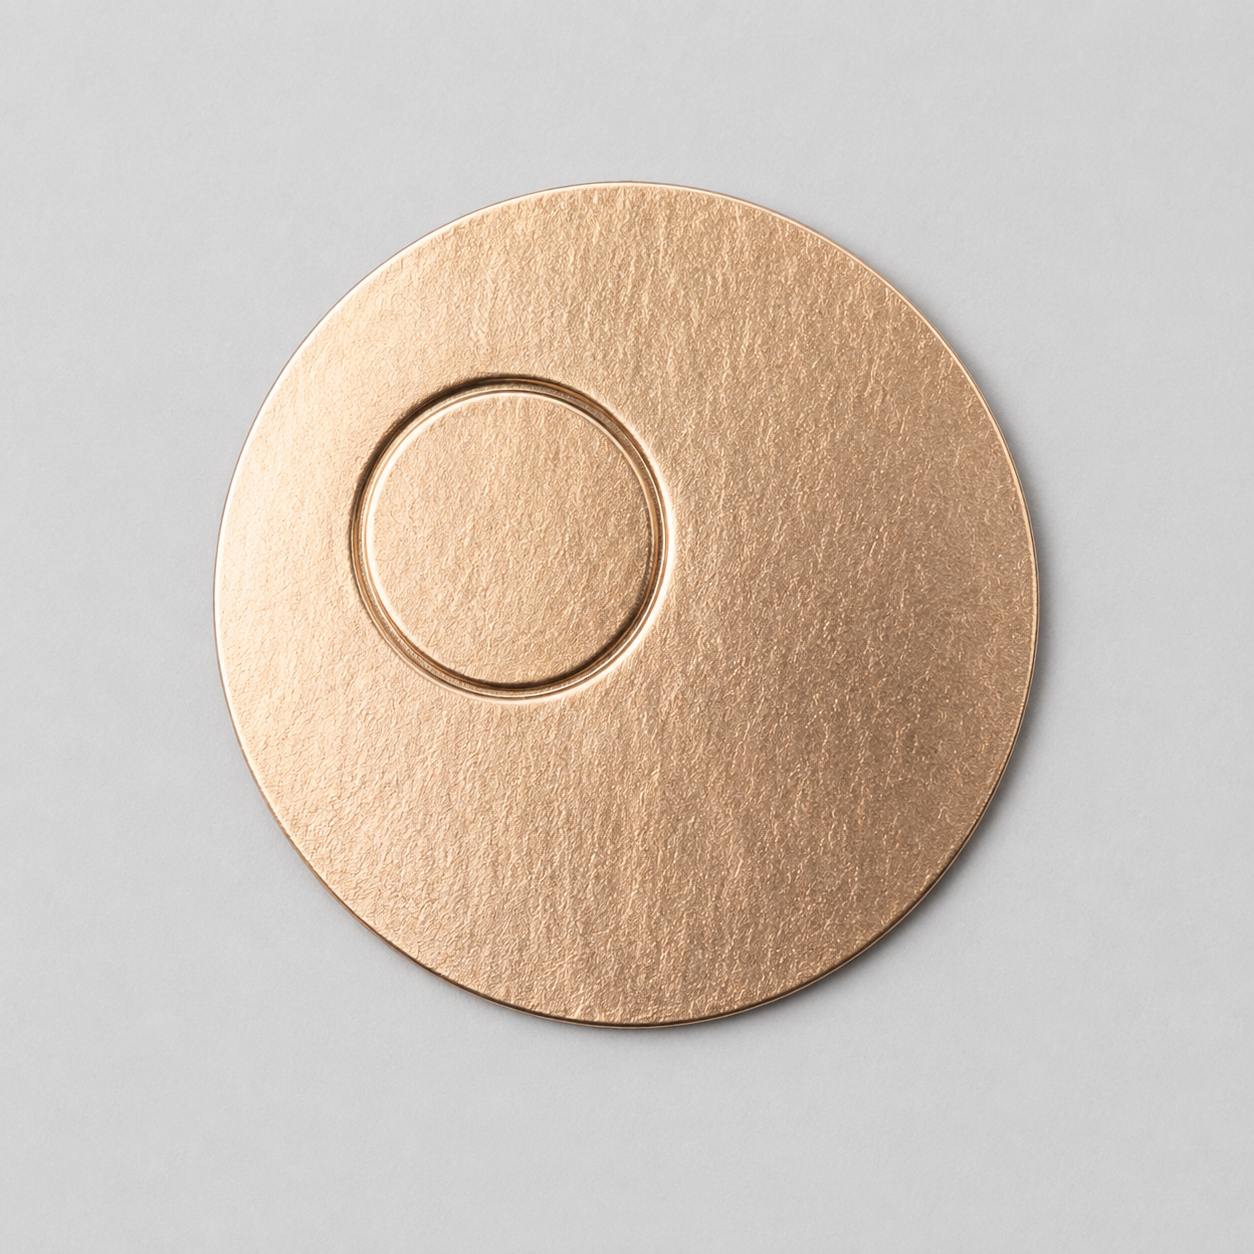
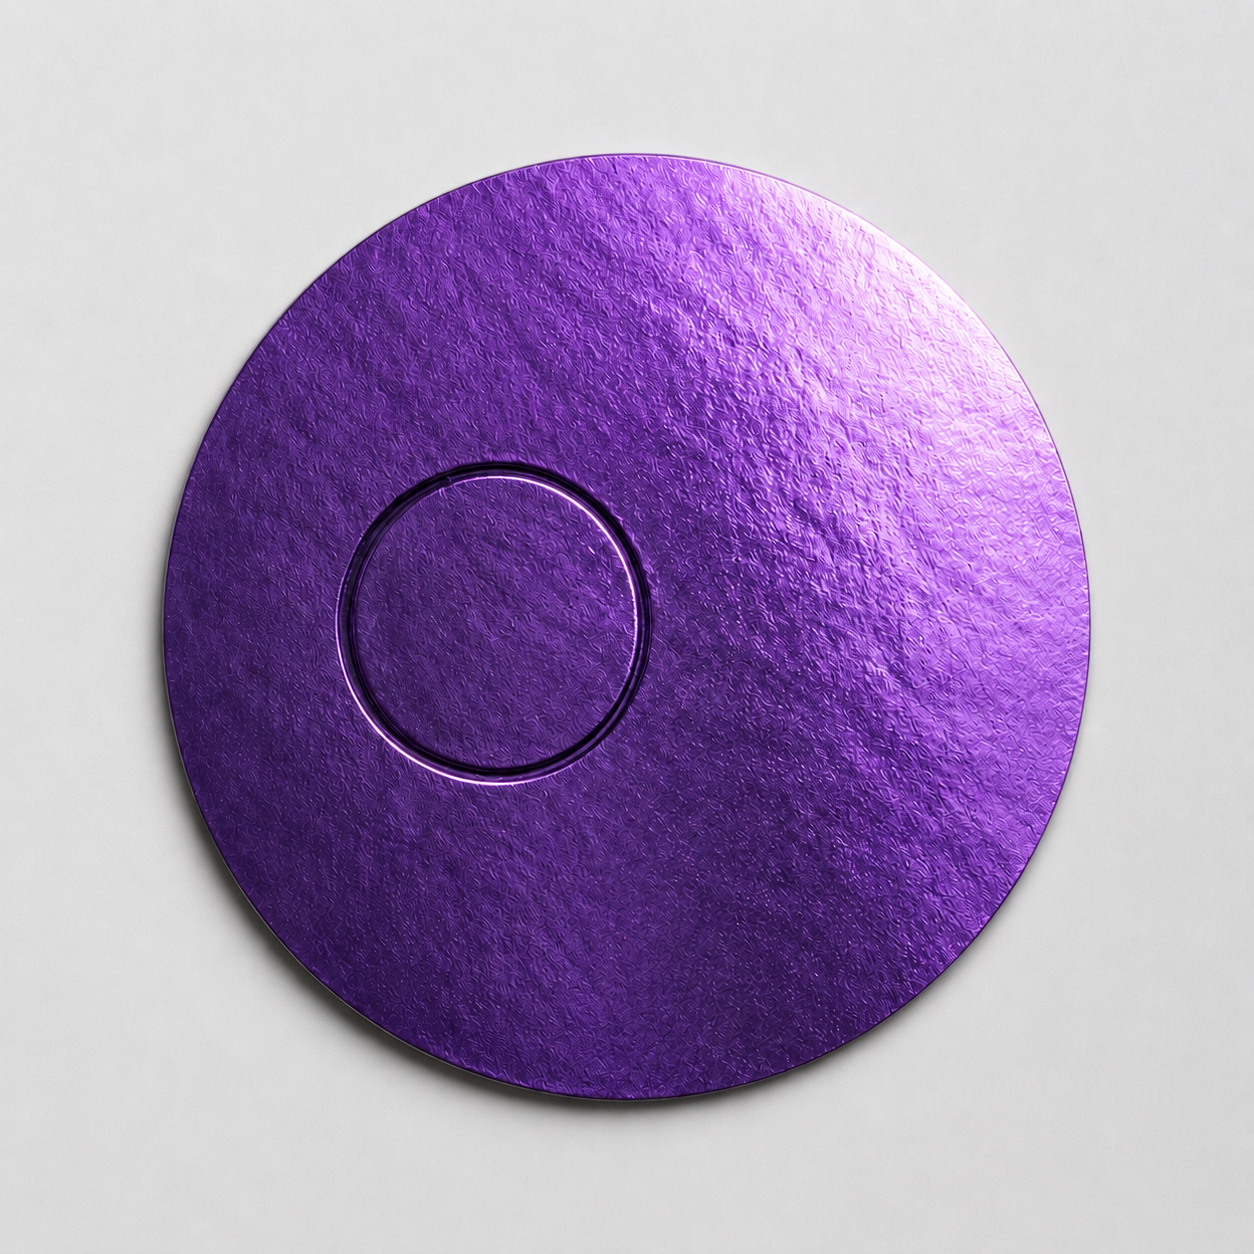
fix: use postcard-specific size swatches

diff --git a/resources/js/pages/shop/show.tsx b/resources/js/pages/shop/show.tsx
@@ -468,6 +468,18 @@ const generatedSizeSwatches: Record<string, string> = {
     custom: `${reusableSwatchBase}/custom-size.webp`,
 };
 
+const postcardSizeSwatches: Record<string, string> = {
+    standard: '/images/products/postcards/sizes/standard.png',
+    square: '/images/products/postcards/sizes/square.png',
+    rack: '/images/products/postcards/sizes/rack.png',
+    half_page: '/images/products/postcards/sizes/half-page.png',
+    'half-page': '/images/products/postcards/sizes/half-page.png',
+    small: '/images/products/postcards/sizes/small.png',
+    medium: '/images/products/postcards/sizes/medium.png',
+    large: '/images/products/postcards/sizes/large.png',
+    custom: '/images/products/postcards/sizes/custom.svg',
+};
+
 const captionedSizeSwatchCodes = new Set(['standard', 'square', 'custom']);
 
 function shouldShowSwatchCaption(groupKey: string, code: string): boolean {
@@ -478,6 +490,13 @@ function shouldShowSwatchCaption(groupKey: string, code: string): boolean {
 
 function sizeSwatchFor(code: string, fallback?: string): string | undefined {
     return generatedSizeSwatches[code.toLowerCase()] ?? fallback;
+}
+
+function postcardSizeSwatchFor(
+    code: string,
+    fallback?: string,
+): string | undefined {
+    return postcardSizeSwatches[code.toLowerCase()] ?? fallback;
 }
 
 const generatedFinishSwatches: Record<string, string> = {
@@ -966,13 +985,17 @@ export default function ShopShow({
                                 sizeSwatches[s.name.toLowerCase()] ??
                                     s.swatch_image,
                             )
-                          : (s.swatch_image ??
-                            sizeSwatches[s.name.toLowerCase()]),
+                          : isPostcardProduct
+                            ? postcardSizeSwatchFor(id, s.swatch_image)
+                            : (s.swatch_image ??
+                              sizeSwatches[s.name.toLowerCase()]),
                   };
               })
             : c.configurator_options.sizes.map((s: any) => ({
                   ...s,
-                  swatch: sizeSwatches[s.id.toLowerCase()] ?? s.swatch,
+                  swatch: isPostcardProduct
+                      ? postcardSizeSwatchFor(s.id, s.swatch)
+                      : sizeSwatches[s.id.toLowerCase()] ?? s.swatch,
               }));
     }, [
         hasProductOptions,
@@ -980,6 +1003,7 @@ export default function ShopShow({
         c.configurator_options.sizes,
         product.slug,
         isBusinessCardProduct,
+        isPostcardProduct,
         customSizeLimits,
     ]);
 
@@ -2567,6 +2591,7 @@ export default function ShopShow({
                                 useBusinessCardSizeSwatches={
                                     isBusinessCardProduct
                                 }
+                                usePostcardSizeSwatches={isPostcardProduct}
                                 showSpecialFinishSides={!isCottonBusinessCards}
                                 showHotFoilSides={true}
                                 specialFinishSides={selectedSpecialFinishSides}
@@ -4006,6 +4031,7 @@ function DynamicOptionGroups({
     customSize,
     onCustomSizeSelect,
     useBusinessCardSizeSwatches,
+    usePostcardSizeSwatches,
     showSpecialFinishSides,
     showHotFoilSides,
     specialFinishSides,
@@ -4017,6 +4043,7 @@ function DynamicOptionGroups({
     customSize?: { width: number; height: number } | null;
     onCustomSizeSelect?: () => void;
     useBusinessCardSizeSwatches: boolean;
+    usePostcardSizeSwatches: boolean;
     showSpecialFinishSides: boolean;
     showHotFoilSides: boolean;
     specialFinishSides: Record<string, SpecialFinishSide>;
@@ -4172,6 +4199,11 @@ function DynamicOptionGroups({
                                                     code,
                                                     value.swatch_image,
                                                 )
+                                              : usePostcardSizeSwatches
+                                                ? postcardSizeSwatchFor(
+                                                      code,
+                                                      value.swatch_image,
+                                                  )
                                               : value.swatch_image
                                           : value.swatch_image;
                                 const isCustomSize =

diff --git a/database/migrations/2026_10_13_000004_update_postcard_size_swatch_illustrations.php b/database/migrations/2026_10_13_000004_update_postcard_size_swatch_illustrations.php
@@ -1,0 +1,36 @@
+<?php
+
+use App\Models\Product;
+use App\Support\PostcardProductCatalog;
+use Illuminate\Database\Migrations\Migration;
+use Illuminate\Support\Facades\DB;
+
+return new class extends Migration
+{
+    public function up(): void
+    {
+        $sizeOptions = PostcardProductCatalog::sizeOptions();
+
+        DB::transaction(function () use ($sizeOptions): void {
+            foreach (Product::query()->whereIn('slug', PostcardProductCatalog::slugs())->get() as $product) {
+                $config = $product->product_config;
+
+                if (! is_array($config) || $config === []) {
+                    continue;
+                }
+
+                $config['options'] = is_array($config['options'] ?? null)
+                    ? $config['options']
+                    : [];
+                $config['options']['sizes'] = $sizeOptions;
+
+                $product->forceFill(['product_config' => $config])->saveQuietly();
+            }
+        });
+    }
+
+    public function down(): void
+    {
+        // Keep postcard-specific size illustrations in place.
+    }
+};

diff --git a/app/Support/PostcardProductCatalog.php b/app/Support/PostcardProductCatalog.php
@@ -342,7 +342,7 @@ final class PostcardProductCatalog
             'min_height' => 18,
             'max_height' => 301,
             'description' => 'W 18–430 mm × H 18–301 mm',
-            'swatch_image' => '/images/product-options/business-cards/swatches/custom-size.webp',
+            'swatch_image' => '/images/products/postcards/sizes/custom.svg',
         ];
 
         return [
